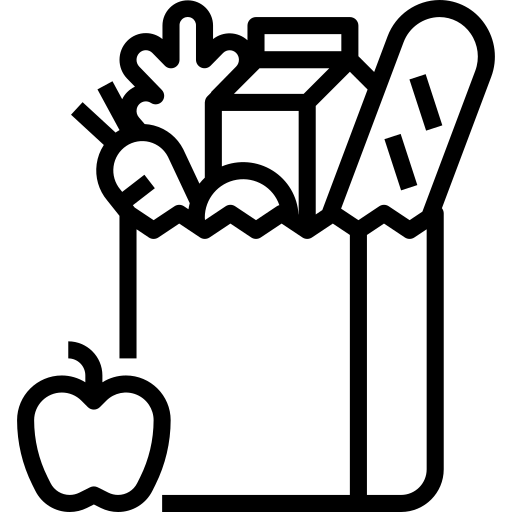
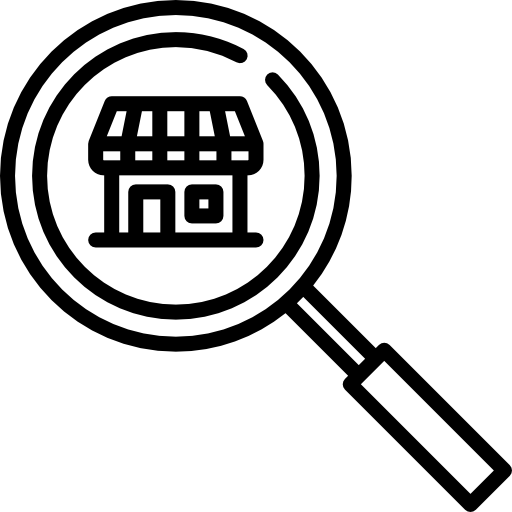
fix barcode scanner for android

diff --git a/lib/feature/foods/presentation/screen/manual_food_macro_wizard_screen.dart b/lib/feature/foods/presentation/screen/manual_food_macro_wizard_screen.dart
@@ -5,11 +5,8 @@ import 'package:flutter_bloc/flutter_bloc.dart';
 import 'package:getwidget/components/loader/gf_loader.dart';
 import 'package:getwidget/types/gf_loader_type.dart';
 import 'package:masterpie/feature/foods/domain/model/generic_food_model.dart';
-import 'package:masterpie/feature/foods/presentation/screen/ui_helper/debouncer.dart';
 import 'package:masterpie/feature/foods/presentation/screen/ui_helper/meal_ingredients_list_ui.dart';
-import 'package:masterpie/feature/foods/presentation/screen/ui_helper/model/generic_grocery_detail_macro_wizard_argument_model.dart';
 import 'package:masterpie/feature/foods/presentation/screen/ui_helper/model/request_wizard_argument_model.dart';
-import 'package:masterpie/feature/foods/presentation/screen/ui_helper/model_converter.dart';
 import 'package:masterpie/feature/foods/presentation/screen/ui_helper/unit_options.dart';
 import '../../../../main_screen.dart';
 import '../../../../util/core/constant/messages_constants.dart';
@@ -18,7 +15,6 @@ import '../../../../util/design/helper_functions/helper_functions_design.dart';
 import '../../../../util/design/size/app_widget_size.dart';
 import '../../../../util/design/text/app_assets.dart';
 import '../../../../util/design/toast/app_toast.dart';
-import '../../data/remote/datasource/fat_secret_food_remote_datasource_impl.dart';
 import '../../domain/model/food_model.dart';
 import '../../domain/model/food_type.dart';
 import '../bloc/groceries_bloc/groceries_bloc.dart';
@@ -43,8 +39,6 @@ class _ManualFoodMacroWizardScreenState extends State<ManualFoodMacroWizardScree
   late TextEditingController _totalCarbController;
   late TextEditingController _totalFatController;
   late TextEditingController _totalServingController;
-
-  final _debouncer = Debouncer(milliseconds: 1000);
 
   late TextEditingController _calorieController;
   late TextEditingController _proteinController;
@@ -117,7 +111,7 @@ class _ManualFoodMacroWizardScreenState extends State<ManualFoodMacroWizardScree
   void _onTotalServingChanged() {
     setState(() {
     });
-    _debouncer.run(() {
+    debouncer.run(() {
       setState(() {
         if(num.parse(_totalServingController.text.isEmpty ? '0' : _totalServingController.text) > 0){
           double coefficient = num.parse(_totalServingController.text)/_initialStateFood.servingAmount;
@@ -147,7 +141,7 @@ class _ManualFoodMacroWizardScreenState extends State<ManualFoodMacroWizardScree
     setState(() {
 
     });
-    _debouncer.run(() {
+    debouncer.run(() {
       _suggestedGroceries.clear();
       if(_groceryNameController.text.isNotEmpty && _selectedAddGroceryOption == ADD_GROCERY_BY_SEARCH_LABEL){
         _groceriesBloc.add(
@@ -166,7 +160,7 @@ class _ManualFoodMacroWizardScreenState extends State<ManualFoodMacroWizardScree
     setState(() {
 
     });
-    _debouncer.run(() {
+    debouncer.run(() {
       _suggestedGroceries.clear();
       if(_ingredientNameController.text.isNotEmpty && _selectedAddIngredientOption == ADD_INGREDIENT_BY_SEARCH){
         _groceriesBloc.add(

diff --git a/lib/feature/foods/presentation/screen/edit_recipe_screen.dart b/lib/feature/foods/presentation/screen/edit_recipe_screen.dart
@@ -6,10 +6,6 @@ import 'package:getwidget/components/loader/gf_loader.dart';
 import 'package:getwidget/types/gf_loader_type.dart';
 import 'package:intl/intl.dart';
 import 'package:masterpie/feature/foods/domain/model/generic_food_model.dart';
-import 'package:masterpie/feature/foods/presentation/screen/my_cook_book_screen.dart';
-import 'package:masterpie/feature/foods/presentation/screen/ui_helper/debouncer.dart';
-import 'package:masterpie/feature/foods/presentation/screen/ui_helper/meal_ingredients_list_ui.dart';
-import 'package:masterpie/feature/foods/presentation/screen/ui_helper/model/food_detail_argument_model.dart';
 import 'package:masterpie/feature/foods/presentation/screen/ui_helper/model/generic_food_detail_argument_model.dart';
 import 'package:masterpie/feature/foods/presentation/screen/ui_helper/model_converter.dart';
 import 'package:masterpie/feature/foods/presentation/screen/ui_helper/recipe_ingredients_list_ui.dart';
@@ -21,7 +17,6 @@ import '../../../../util/design/helper_functions/helper_functions_design.dart';
 import '../../../../util/design/size/app_widget_size.dart';
 import '../../../../util/design/text/app_assets.dart';
 import '../../../../util/design/toast/app_toast.dart';
-import '../../data/remote/datasource/fat_secret_food_remote_datasource_impl.dart';
 import '../../data/repository_impl/foods_repository_impl.dart';
 import '../../domain/model/food_model.dart';
 import '../../domain/model/food_type.dart';
@@ -59,7 +54,6 @@ class _EditRecipeScreenState extends State<EditRecipeScreen> {
    int _selectedUnitIndex = 0;
    List<String> _searchUnitOptions = [];
 
-   final _debouncer = Debouncer(milliseconds: 1000);
 
    GenericFood _initialStateFood = GenericFood();
 
@@ -140,7 +134,7 @@ class _EditRecipeScreenState extends State<EditRecipeScreen> {
      setState(() {
 
      });
-     _debouncer.run(() {
+     debouncer.run(() {
        setState(() {
          if(num.parse(_totalServingController.text.isEmpty ? '0' : _totalServingController.text) > 0){
            double coefficient = num.parse(_totalServingController.text)/_initialStateFood.servingAmount[0];
@@ -168,7 +162,7 @@ class _EditRecipeScreenState extends State<EditRecipeScreen> {
      setState(() {
 
      });
-     _debouncer.run(() {
+     debouncer.run(() {
        _suggestedGroceries.clear();
        if(_ingredientNameController.text.isNotEmpty && _selectedAddIngredientOption == ADD_INGREDIENT_BY_SEARCH){
          _groceriesBloc.add(

diff --git a/lib/feature/foods/presentation/screen/search_grocery_list_ui.dart b/lib/feature/foods/presentation/screen/search_grocery_list_ui.dart
@@ -2,6 +2,7 @@
 
 import 'package:flutter/cupertino.dart';
 import 'package:flutter/material.dart';
+import 'package:flutter/widgets.dart';
 import 'package:masterpie/feature/foods/domain/model/generic_food_model.dart';
 import 'package:masterpie/feature/foods/presentation/food_calculator/generic_food_calculator.dart';
 import 'package:masterpie/feature/foods/presentation/screen/ui_helper/model_converter.dart';
@@ -105,9 +106,22 @@ class _SearchGroceriesListUiState extends State<SearchGroceriesListUi> {
                                     ),
                                     const SizedBox(width: 2,),
                                     Expanded(
-                                      child: Text(food.name.capitalize(),
-                                        style: const TextStyle(color: DARK_PRIMARY_COLOR, fontSize: 16, fontWeight: FontWeight.bold, fontFamily: MONTSERRAT_FONT),
-                                      ),
+                                      child: Column(
+                                        crossAxisAlignment: CrossAxisAlignment.start,
+                                        children: [
+
+                                          Text(food.name.capitalize(),
+                                            style: const TextStyle(color: DARK_PRIMARY_COLOR, fontSize: 16, fontWeight: FontWeight.bold, fontFamily: MONTSERRAT_FONT),
+                                          ),
+
+                                          Visibility(
+                                            visible: food.brandName.isNotEmpty,
+                                            child: Text(food.brandName.capitalize(),
+                                              style: const TextStyle(color: DARK_PRIMARY_COLOR, fontSize: 13, fontWeight: FontWeight.normal, fontFamily: MONTSERRAT_FONT),
+                                            ),
+                                          ),
+                                        ],
+                                      )
                                     ),
                                   ],
                                 ),

diff --git a/lib/feature/foods/presentation/screen/search_grocery_list_ui_macro_wizard.dart b/lib/feature/foods/presentation/screen/search_grocery_list_ui_macro_wizard.dart
@@ -79,11 +79,22 @@ class _SearchGroceriesListUiForMacroWizardState extends State<SearchGroceriesLis
                                     widget.foodIcon,
                                     const SizedBox(width: 2,),
                                     Expanded(
-                                      child: Text(food.name.capitalize(),
-                                        style: const TextStyle(color: DARK_PRIMARY_COLOR, fontSize: 16, fontWeight: FontWeight.bold, fontFamily: MONTSERRAT_FONT),
-                                        overflow: TextOverflow.ellipsis,
-                                        maxLines: 1,
-                                      ),
+                                      child: Column(
+                                        crossAxisAlignment: CrossAxisAlignment.start,
+                                        children: [
+
+                                          Text(food.name.capitalize(),
+                                            style: const TextStyle(color: DARK_PRIMARY_COLOR, fontSize: 16, fontWeight: FontWeight.bold, fontFamily: MONTSERRAT_FONT),
+                                          ),
+
+                                          Visibility(
+                                            visible: food.brandName.isNotEmpty,
+                                            child: Text(food.brandName.capitalize(),
+                                              style: const TextStyle(color: DARK_PRIMARY_COLOR, fontSize: 13, fontWeight: FontWeight.normal, fontFamily: MONTSERRAT_FONT),
+                                            ),
+                                          ),
+                                        ],
+                                      )
                                     ),
                                   ],
                                 ),

diff --git a/lib/feature/foods/presentation/screen/add_new_cook_book_screen.dart b/lib/feature/foods/presentation/screen/add_new_cook_book_screen.dart
@@ -6,7 +6,6 @@ import 'package:flutter_bloc/flutter_bloc.dart';
 import 'package:getwidget/components/loader/gf_loader.dart';
 import 'package:getwidget/types/gf_loader_type.dart';
 import 'package:masterpie/feature/foods/domain/model/generic_food_model.dart';
-import 'package:masterpie/feature/foods/presentation/screen/ui_helper/debouncer.dart';
 import 'package:masterpie/feature/foods/presentation/screen/ui_helper/meal_ingredients_list_ui.dart';
 import 'package:masterpie/feature/foods/presentation/screen/ui_helper/unit_options.dart';
 import 'package:masterpie/main_screen.dart';
@@ -43,7 +42,6 @@ class _AddNewCookBookScreenState extends State<AddNewCookBookScreen> {
    late TextEditingController _totalServingController;
 
 
-   final _debouncer = Debouncer(milliseconds: 1000);
 
    late TextEditingController _calorieController;
    late TextEditingController _proteinController;
@@ -114,7 +112,7 @@ class _AddNewCookBookScreenState extends State<AddNewCookBookScreen> {
      setState(() {
 
      });
-     _debouncer.run(() {
+     debouncer.run(() {
        _suggestedGroceries.clear();
        if(_groceryNameController.text.isNotEmpty && _selectedAddGroceryOption == ADD_GROCERY_BY_SEARCH_LABEL){
          _groceriesBloc.add(
@@ -133,7 +131,7 @@ class _AddNewCookBookScreenState extends State<AddNewCookBookScreen> {
      setState(() {
 
      });
-     _debouncer.run(() {
+     debouncer.run(() {
        _suggestedGroceries.clear();
        if(_ingredientNameController.text.isNotEmpty && _selectedAddIngredientOption == ADD_INGREDIENT_BY_SEARCH){
          _groceriesBloc.add(

diff --git a/lib/main_screen.dart b/lib/main_screen.dart
@@ -1111,7 +1111,7 @@ class _MainScreenState extends State<MainScreen> with SingleTickerProviderStateM
 
                                                               CircleAvatar(
                                                                 radius: 12, // Adjust the radius as needed
-                                                                backgroundColor: MASTERPIE_ORANGE_COLOR,
+                                                                backgroundColor: DARK_PRIMARY_COLOR,
                                                                 child: Text(
                                                                   '1',
                                                                   style: TextStyle(
@@ -1382,7 +1382,7 @@ class _MainScreenState extends State<MainScreen> with SingleTickerProviderStateM
                                                             shape: BoxShape.circle,
                                                           ),
                                                           child: IconButton(
-                                                            icon: Image.asset(FAVORITE_FOOD_PATH, color: Colors.white,),
+                                                            icon: Image.asset(COOK_FOOD_PATH, color: Colors.white,),
                                                             onPressed: () {
                                                               myCookBookClickListener();
                                                             },

diff --git a/lib/feature/foods/presentation/screen/my_cook_book_screen.dart b/lib/feature/foods/presentation/screen/my_cook_book_screen.dart
@@ -8,13 +8,13 @@ import 'package:getwidget/types/gf_loader_type.dart';
 import 'package:intl/intl.dart';
 import 'package:masterpie/feature/foods/presentation/screen/add_new_cook_book_screen.dart';
 import 'package:masterpie/feature/foods/presentation/screen/my_cook_book_foods_list_ui.dart';
-import 'package:masterpie/feature/foods/presentation/screen/ui_helper/debouncer.dart';
 import 'package:masterpie/feature/foods/presentation/screen/ui_helper/logged_food_chip_widget.dart';
 import 'package:masterpie/feature/foods/presentation/screen/ui_helper/model/food_detail_argument_model.dart';
 import 'package:masterpie/feature/foods/presentation/screen/view_cook_book_food_screen.dart';
 import '../../../../main_screen.dart';
 import '../../../../util/core/constant/messages_constants.dart';
 import '../../../../util/design/color/app_colors.dart';
+import '../../../../util/design/helper_functions/helper_functions_design.dart';
 import '../../../../util/design/size/app_widget_size.dart';
 import '../../../../util/design/text/app_assets.dart';
 import '../../../../util/design/toast/app_toast.dart';
@@ -59,7 +59,6 @@ class _MyCookBookScreenState extends State<MyCookBookScreen>{
   List<Food> _newMyCookBookFoods= [];
 
 
-  final _debouncer = Debouncer(milliseconds: 1000);
 
   @override
   void initState() {
@@ -80,7 +79,7 @@ class _MyCookBookScreenState extends State<MyCookBookScreen>{
     setState(() {
 
     });
-    _debouncer.run(() {
+    debouncer.run(() {
       requestMyCookBookFoods();
     });
   }

diff --git a/lib/feature/foods/presentation/screen/edit_cook_book_food_screen.dart b/lib/feature/foods/presentation/screen/edit_cook_book_food_screen.dart
@@ -6,7 +6,6 @@ import 'package:getwidget/components/loader/gf_loader.dart';
 import 'package:getwidget/types/gf_loader_type.dart';
 import 'package:masterpie/feature/foods/domain/model/generic_food_model.dart';
 import 'package:masterpie/feature/foods/presentation/screen/my_cook_book_screen.dart';
-import 'package:masterpie/feature/foods/presentation/screen/ui_helper/debouncer.dart';
 import 'package:masterpie/feature/foods/presentation/screen/ui_helper/meal_ingredients_list_ui.dart';
 import 'package:masterpie/feature/foods/presentation/screen/ui_helper/model/food_detail_argument_model.dart';
 import 'package:masterpie/feature/foods/presentation/screen/ui_helper/unit_options.dart';
@@ -48,8 +47,6 @@ class _EditCookBookFoodScreenState extends State<EditCookBookFoodScreen> {
    GenericFood _selectedGenericIngredient = GenericFood();
    int _selectedUnitIndex = 0;
    List<String> _searchUnitOptions = [];
-
-   final _debouncer = Debouncer(milliseconds: 1000);
 
    late TextEditingController _calorieController;
    late TextEditingController _proteinController;
@@ -117,7 +114,7 @@ class _EditCookBookFoodScreenState extends State<EditCookBookFoodScreen> {
      setState(() {
 
      });
-     _debouncer.run(() {
+     debouncer.run(() {
        _suggestedGroceries.clear();
        if(_ingredientNameController.text.isNotEmpty && _selectedAddIngredientOption == ADD_INGREDIENT_BY_SEARCH){
          _groceriesBloc.add(

diff --git a/lib/feature/foods/presentation/screen/edit_recipe_macro_wizard_screen.dart b/lib/feature/foods/presentation/screen/edit_recipe_macro_wizard_screen.dart
@@ -5,7 +5,6 @@ import 'package:flutter_bloc/flutter_bloc.dart';
 import 'package:getwidget/components/loader/gf_loader.dart';
 import 'package:getwidget/types/gf_loader_type.dart';
 import 'package:masterpie/feature/foods/domain/model/generic_food_model.dart';
-import 'package:masterpie/feature/foods/presentation/screen/ui_helper/debouncer.dart';
 import 'package:masterpie/feature/foods/presentation/screen/ui_helper/model/generic_grocery_detail_macro_wizard_argument_model.dart';
 import 'package:masterpie/feature/foods/presentation/screen/ui_helper/model/request_wizard_argument_model.dart';
 import 'package:masterpie/feature/foods/presentation/screen/ui_helper/model_converter.dart';
@@ -55,8 +54,6 @@ class _EditRecipeMacroWizardScreenState extends State<EditRecipeMacroWizardScree
    GenericFood _selectedGenericIngredient = GenericFood();
    int _selectedUnitIndex = 0;
    List<String> _searchUnitOptions = [];
-
-   final _debouncer = Debouncer(milliseconds: 1000);
 
 
    late TextEditingController _calorieController;
@@ -146,7 +143,7 @@ class _EditRecipeMacroWizardScreenState extends State<EditRecipeMacroWizardScree
      setState(() {
 
      });
-     _debouncer.run(() {
+     debouncer.run(() {
        _suggestedGroceries.clear();
        if(_ingredientNameController.text.isNotEmpty && _selectedAddIngredientOption == ADD_INGREDIENT_BY_SEARCH){
          _groceriesBloc.add(

diff --git a/lib/feature/foods/presentation/screen/edit_favorite_food_screen.dart b/lib/feature/foods/presentation/screen/edit_favorite_food_screen.dart
@@ -7,7 +7,6 @@ import 'package:getwidget/components/loader/gf_loader.dart';
 import 'package:getwidget/types/gf_loader_type.dart';
 import 'package:masterpie/feature/foods/domain/model/generic_food_model.dart';
 import 'package:masterpie/feature/foods/presentation/screen/my_favorite_foods_screen.dart';
-import 'package:masterpie/feature/foods/presentation/screen/ui_helper/debouncer.dart';
 import 'package:masterpie/feature/foods/presentation/screen/ui_helper/meal_ingredients_list_ui.dart';
 import 'package:masterpie/feature/foods/presentation/screen/ui_helper/model/food_detail_argument_model.dart';
 import 'package:masterpie/feature/foods/presentation/screen/ui_helper/unit_options.dart';
@@ -51,8 +50,6 @@ class _EditFavoriteFoodScreenState extends State<EditFavoriteFoodScreen> {
   GenericFood _selectedGenericIngredient = GenericFood();
   int _selectedNewIngredientUnitIndex = 0;
   List<String> _searchUnitOptions = [];
-
-  final _debouncer = Debouncer(milliseconds: 1000);
 
 
   late TextEditingController _calorieController;
@@ -124,7 +121,7 @@ class _EditFavoriteFoodScreenState extends State<EditFavoriteFoodScreen> {
     setState(() {
 
     });
-    _debouncer.run(() {
+    debouncer.run(() {
       _suggestedGroceries.clear();
       if(_ingredientNameController.text.isNotEmpty && _selectedAddIngredientOption == ADD_INGREDIENT_BY_SEARCH){
         _groceriesBloc.add(

diff --git a/lib/feature/foods/presentation/screen/edit_logged_food_screen.dart b/lib/feature/foods/presentation/screen/edit_logged_food_screen.dart
@@ -6,7 +6,6 @@ import 'package:flutter_bloc/flutter_bloc.dart';
 import 'package:getwidget/components/loader/gf_loader.dart';
 import 'package:getwidget/types/gf_loader_type.dart';
 import 'package:intl/intl.dart';
-import 'package:masterpie/feature/foods/presentation/screen/ui_helper/debouncer.dart';
 import 'package:masterpie/feature/foods/presentation/screen/ui_helper/meal_ingredients_list_ui.dart';
 import 'package:masterpie/feature/foods/presentation/screen/ui_helper/model/food_detail_argument_model.dart';
 import 'package:masterpie/feature/foods/presentation/screen/ui_helper/unit_options.dart';
@@ -51,7 +50,6 @@ class _EditLoggedFoodScreenState extends State<EditLoggedFoodScreen> {
   int _selectedNewIngredientUnitIndex = 0;
   List<String> _searchUnitOptions = [];
 
-  final _debouncer = Debouncer(milliseconds: 1000);
 
 
   late TextEditingController _calorieController;
@@ -410,7 +408,7 @@ class _EditLoggedFoodScreenState extends State<EditLoggedFoodScreen> {
     setState(() {
 
     });
-    _debouncer.run(() {
+    debouncer.run(() {
       _suggestedGroceries.clear();
       if(_ingredientNameController.text.isNotEmpty && _selectedAddIngredientOption == ADD_INGREDIENT_BY_SEARCH){
         _groceriesBloc.add(

diff --git a/lib/feature/foods/data/remote/datasource/fat_secret_food_remote_datasource_impl.dart b/lib/feature/foods/data/remote/datasource/fat_secret_food_remote_datasource_impl.dart
@@ -52,6 +52,7 @@ class FatSecretFoodRemoteDataSourceImpl extends FatSecretRemoteDataSource{
 
         final foods = data['foods_search']['results']['food'];
 
+
         foods.forEach((element) {
 
           List<String> calorie = [];
@@ -71,10 +72,16 @@ class FatSecretFoodRemoteDataSourceImpl extends FatSecretRemoteDataSource{
             servingIngredientsCount.add('1.0');
           });
 
+          String brandName= '';
+          if(element['food_type'] == 'Brand'){
+            brandName= element['brand_name'];
+          }
+
           final product = GenericFoodRemote(
             id: element['food_id'],
             name: element['food_name'],
             foodType: FoodTypeRemote.groceryProduct,
+            brandName: brandName,
             calorie: [calorie],
             protein: [protein],
             carb: [carb],
@@ -380,7 +387,9 @@ class FatSecretFoodRemoteDataSourceImpl extends FatSecretRemoteDataSource{
         Map<String, dynamic> params = {
           'method': 'food.get.v4',
           'food_id': groceryId,
+          'flag_default_serving' : true,
           'format': 'json',
+
         };
 
         final detailResponse= await request.postParams(FAT_SECRET_URL, params: params);
